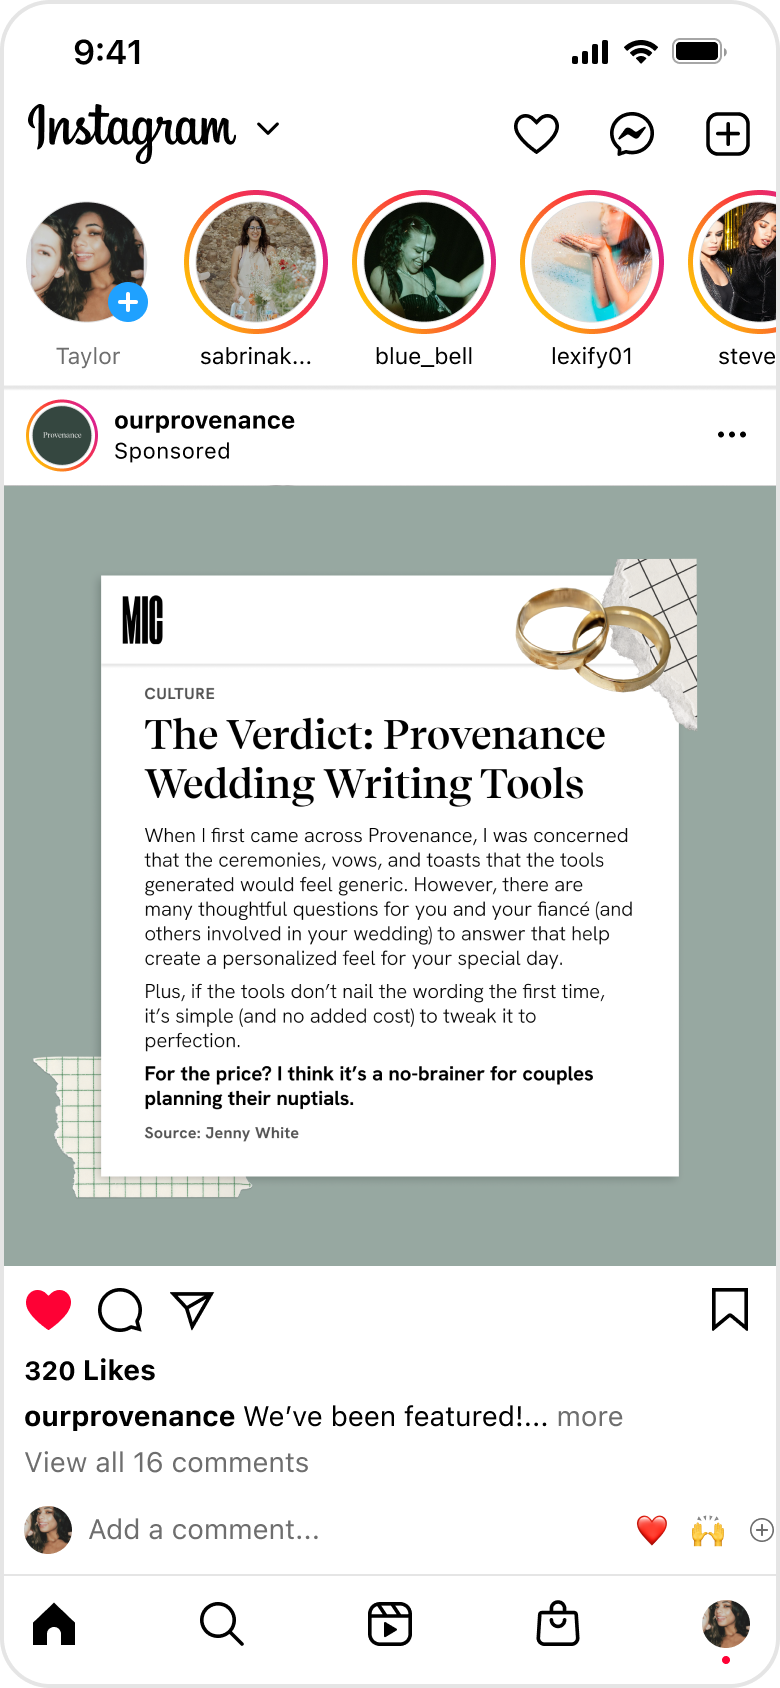
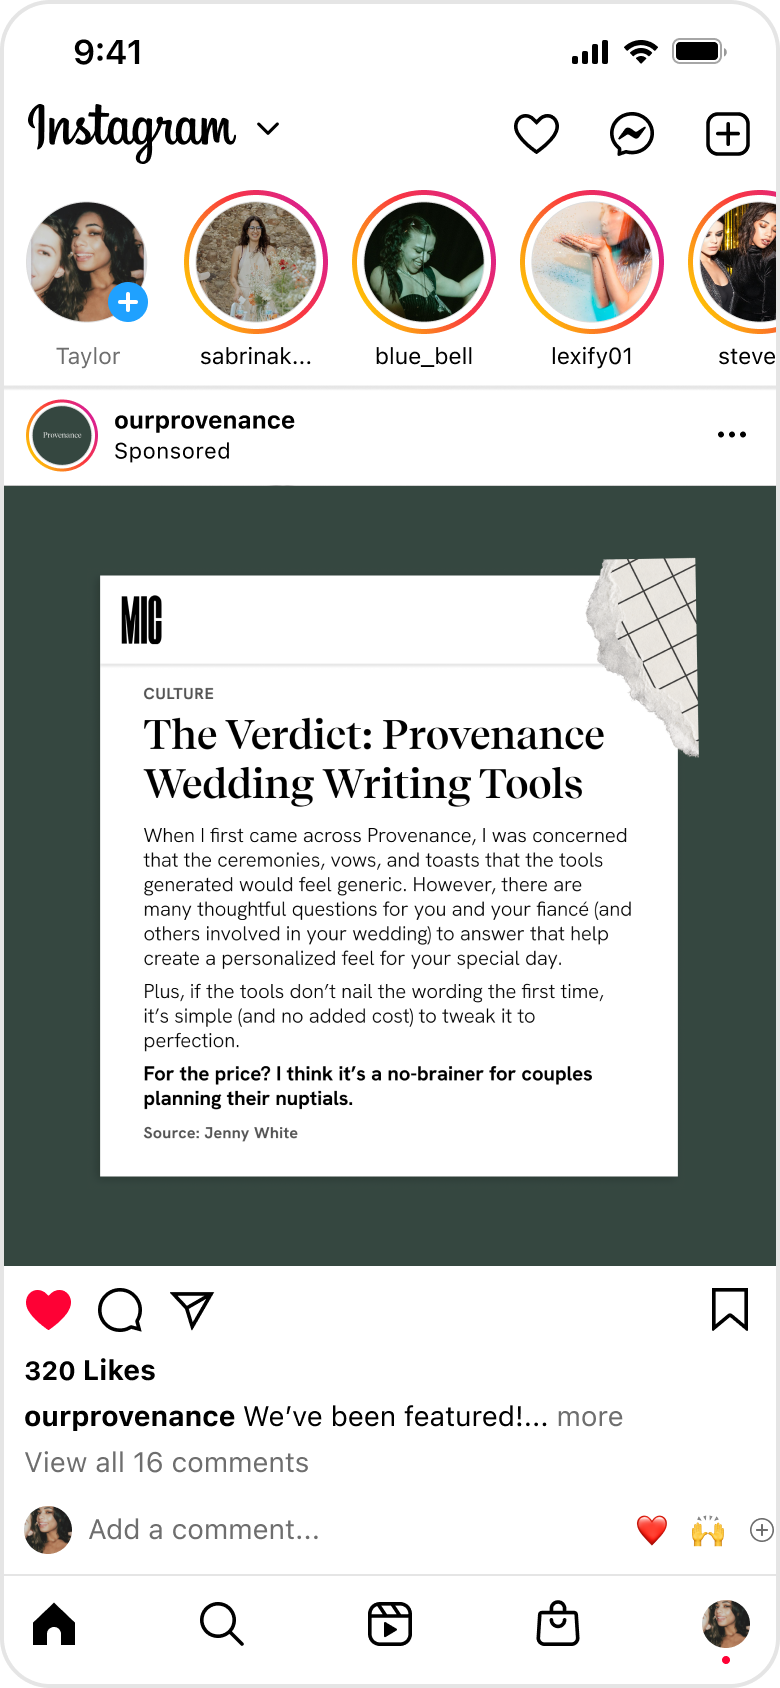
fix
more

Changed region(s): [[0.0, 0.2773, 1.0, 0.7701]]

diff --git a/index.html b/index.html
@@ -132,7 +132,7 @@
 </div><!----APP---->
     
     
-    <a class="one" href="/case_04.html" target="_blank">
+    <a class="one" href="/case_04.html">
 <div class="P SIX blue cyan red">
     <div class="WEB"><div class="cover"><h2>Provenance</h2><h4>UX/UI, Motion Graphics, Social, Email Design</h4></div></div>
 <div class="APP">
@@ -144,7 +144,7 @@
 </a>   
 
 
-    <a class="one" href="/case_07.html" target="_blank">
+    <a class="one" href="/case_07.html">
 <div class="P ONE blue red">
     <div class="WEB"><div class="cover"><h2>Lunchbox Studio Work</h2><h4>Print, Digital</h4></div></div>
 <div class="APP">
@@ -155,7 +155,7 @@
 </div>
 </a> 
  
-<a class="one" href="/case_01.html" target="_blank">
+<a class="one" href="/case_01.html">
 <div class="P TWO green">
 <div class="WEB"><div class="cover"><h2>Seasonal</h2><h4>Branding, UX/UI, Motion Graphics</h4></div></div>
 <div class="APP">
@@ -166,7 +166,7 @@
 </div>
 </a> 
     
-<a class="one" href="/case_06.html" target="_blank">
+<a class="one" href="/case_06.html">
 <div class="P THREE green">
     <div class="WEB"><div class="cover"><h2>Zee's Bees</h2><h4>Branding, Print Design</h4></div></div>
 <div class="APP">
@@ -178,7 +178,7 @@
 </a> 
     
 
-<a class="one" href="/product_password.html" target="_blank">
+<a class="one" href="/product_password.html">
 <div class="P NINE green">
 <div class="WEB"><div class="cover"><h2>Cue Studio</h2><h4>UX/UI, Branding</h4></div></div>
 <div class="APP">
@@ -190,7 +190,7 @@
 </a>  
 
     
-<a class="one" href="/motion.html" target="_blank">
+<a class="one" href="/motion.html">
 <div class="P SEVEN green">
 <div class="WEB"><div class="cover"><h2>Motion</h2><h4>Collection of Motion Projects</h4></div></div>
 <div class="APP">
@@ -201,7 +201,7 @@
 </div>
 </a>     
     
-<a class="one" href="/case_02.html" target="_blank">
+<a class="one" href="/case_02.html">
 <div class="P FIVE blue red">
     <div class="WEB"><div class="cover"><h2>Aurore</h2><h4>UX/UI, Product Design</h4></div></div>
 <div class="APP">
@@ -228,7 +228,7 @@
 ----> 
     
     
-<a class="one" href="/illustrations.html" target="_blank">
+<a class="one" href="/illustrations.html">
 <div class="P EIGHT blue cyan red">
     <div class="WEB"><div class="cover"><h2>Illustrations</h2><h4>Collection of Illustrations</h4></div></div>
 <div class="APP">

diff --git a/case_04.html b/case_04.html
@@ -117,8 +117,8 @@ Motion Graphics
     <div class="fbimg rel"><img src="prov-ig-06.gif"></div>
     <div class="fbimg rel"><img src="prov-ig-01.gif"></div>
     <div class="fbimg rel"><img src="prov-ig-04.png"></div>
-    <div class="fbimg rel"><img src="prov-ig-02.gif"></div>
     <div class="fbimg rel"><img src="prov-ig-03.png"></div>
+    <div class="fbimg rel"><img src="prov-ig-02.gif"></div>
     <div class="fbimg rel"><img src="prov-ig-07.gif"></div>
         
     </div>
